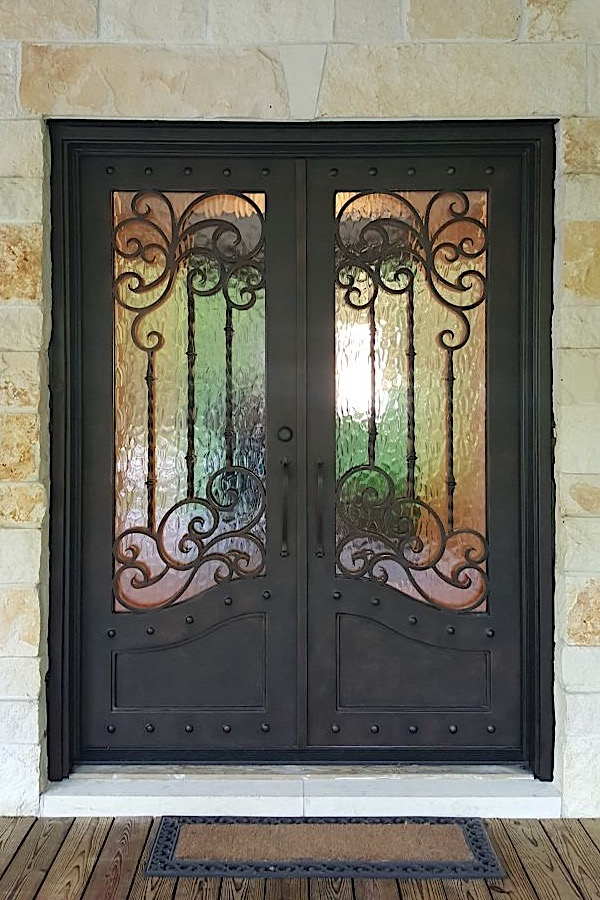
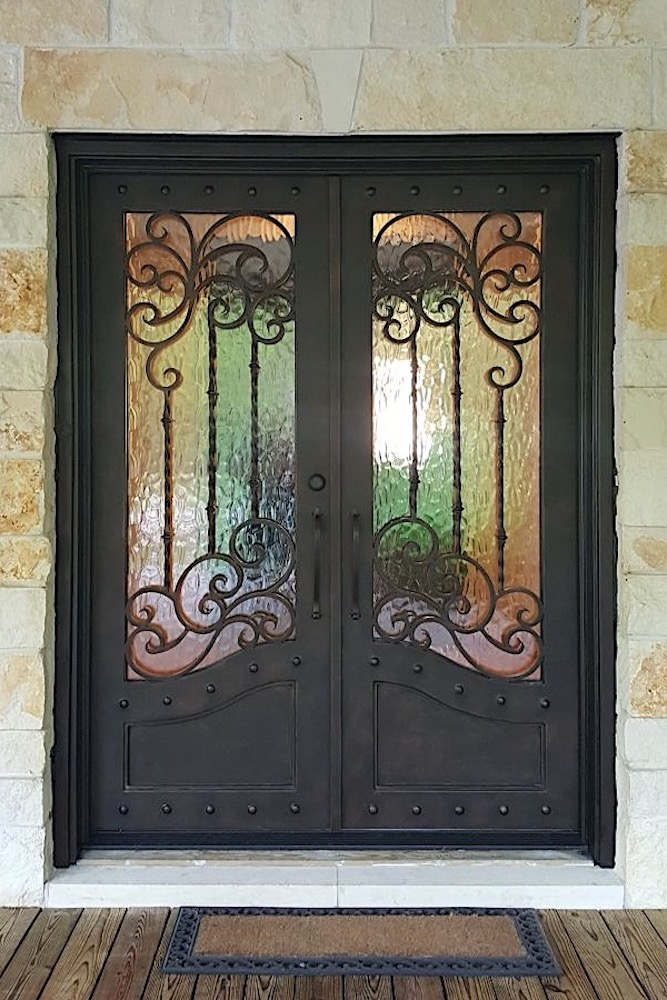
modified the Featured Doors images located on the home page (including resizing, compressing, contrast). also insured that all of these images are also featured on their respective doors pages by adding to the seeds file and reseeding the database.

diff --git a/public/assets/js/handlebarsLogic.js b/public/assets/js/handlebarsLogic.js
@@ -16,38 +16,34 @@ const gMaps = keys.googleMaps;
 
 const featuredImagesArray = [
     {
-        src: "/assets/images/mirabellaDoorsImgs/featuredProducts/tinified/CM1A9908-cropped-and-resized.JPG",
-        design: "Featured Door Name",
-        glass: "Glass Type",
-        alt: "featured door image 1",
+        src: "/assets/images/mirabellaDoorsImgs/imagesComponent/traditional_resized_small/Blaze.jpeg",
+        design: "Blaze",
+        alt: "Best Selling Custom Door - Traditional - Mirabella Doors - Houston - Design: Blaze",
         animation: "wow zoomIn",
     },
     {
-        src: "/assets/images/mirabellaDoorsImgs/featuredProducts/tinified/After-Picture-cropped-and-resized.JPG",
-        design: "Featured Door Name",
-        glass: "Glass Type",
-        alt: "featured door image 2",
+        src: "/assets/images/mirabellaDoorsImgs/imagesComponent/traditional_resized_small/Bellaire.jpeg",
+        design: "Bellaire",
+        alt: "Best Selling Custom Door - Traditional - Mirabella Doors - Houston - Design: Bellaire",
         animation: "wow zoomIn delay-tenths",
     },
     {
         src: "/assets/images/mirabellaDoorsImgs/featuredProducts/tinified/Cosmopolitan-Front-Entry-Doors-cropped-and-resized.jpg",
-        design: "Featured Door Name",
-        glass: "Glass Type",
-        alt: "featured door image 3",
+        design: "Cosmopolitan (Front Entry Doors)",
+        alt: "Best Selling Custom Door - Traditional - Mirabella Doors - Houston - Design: Cosmopolitan (Front Entry Doors)",
         animation: "wow zoomIn delay-twentieths",
     },
     {
-        src: "/assets/images/mirabellaDoorsImgs/featuredProducts/tinified/Miramar-Design-cropped-and-resized.JPG",
-        design: "Featured Door Name",
-        glass: "Glass Type",
-        alt: "featured door image 4",
+        src: "/assets/images/mirabellaDoorsImgs/imagesComponent/traditional_resized_small/Miramar-Design.jpeg",
+        design: "Miramar",
+        alt: "Best Selling Custom Door - Traditional - Mirabella Doors - Design: Miramar",
         animation: "wow zoomIn delay-thirtieths",
     },
     {
-        src: "/assets/images/mirabellaDoorsImgs/featuredProducts/tinified/Kinley-Design-cropped-and-resized.jpg",
-        design: "Featured Door Name",
-        glass: "Glass Type",
-        alt: "featured door image 5",
+        // src: "/assets/images/mirabellaDoorsImgs/featuredProducts/tinified/Kinley-Design-cropped-and-resized.jpg",
+        src: "/assets/images/mirabellaDoorsImgs/imagesComponent/traditional_resized_small/_MG_0008-Edit.jpeg",
+        design: "Kendall",
+        alt: "Best Selling Custom Door - Traditional - Mirabella Doors - Design: Kendall",
         animation: "wow zoomIn delay-fortieths",
     },
 ]

diff --git a/seeds/dataSeed.js b/seeds/dataSeed.js
@@ -667,6 +667,14 @@ const imageSeed = [
         size: "small",
         date: new Date(Date.now())
     },
+    {
+        src: "/assets/images/mirabellaDoorsImgs/imagesComponent/traditional_resized_small/Miramar-Design.jpeg",
+        alt: "Premier Iron Doors in Houston - Quality Craftsmanship - Design Name: Miramar",
+        imgName: "Miramar",
+        category: "traditional",
+        size: "small",
+        date: new Date(Date.now())
+    },
     // TRADITIONAL DOORS (image size large)
     {
         src: "/assets/images/mirabellaDoorsImgs/imagesComponent/traditional_resized_large/DDBT&T_Sophie_LMP.jpg",
